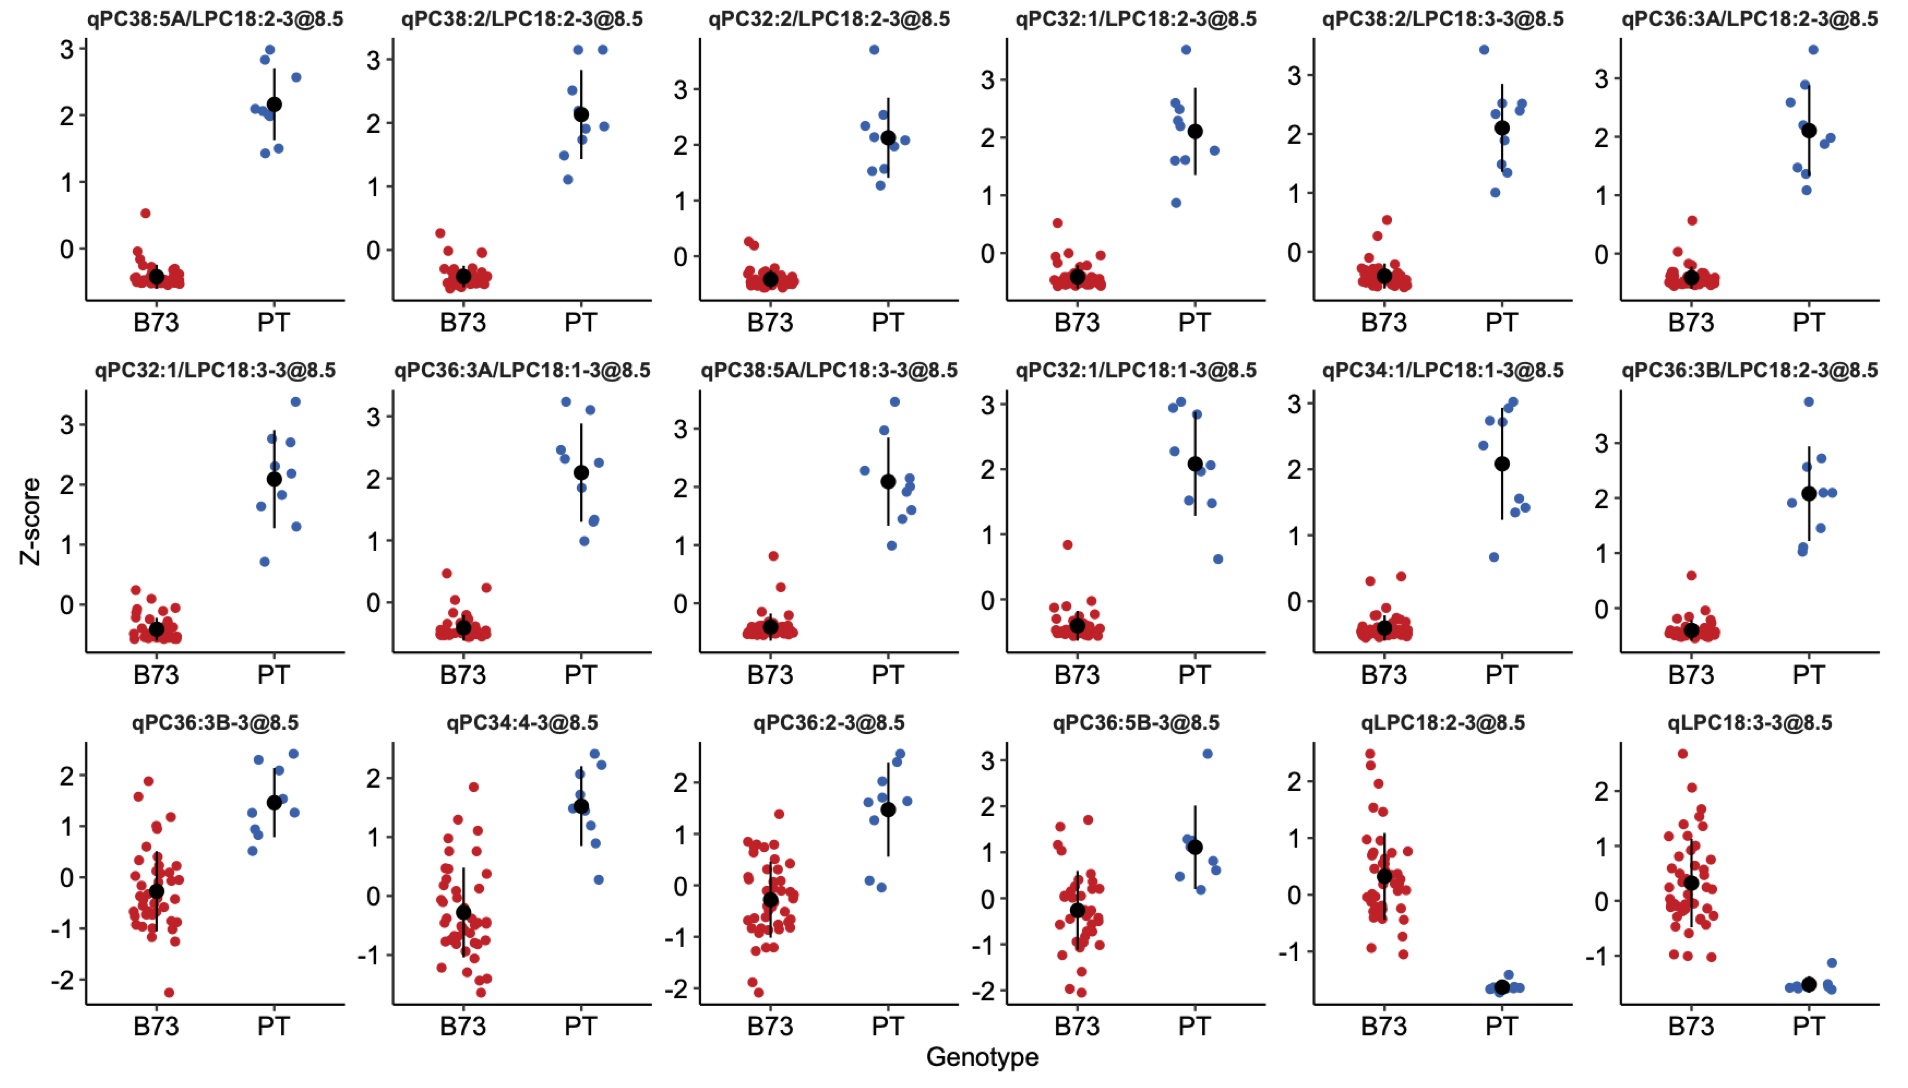
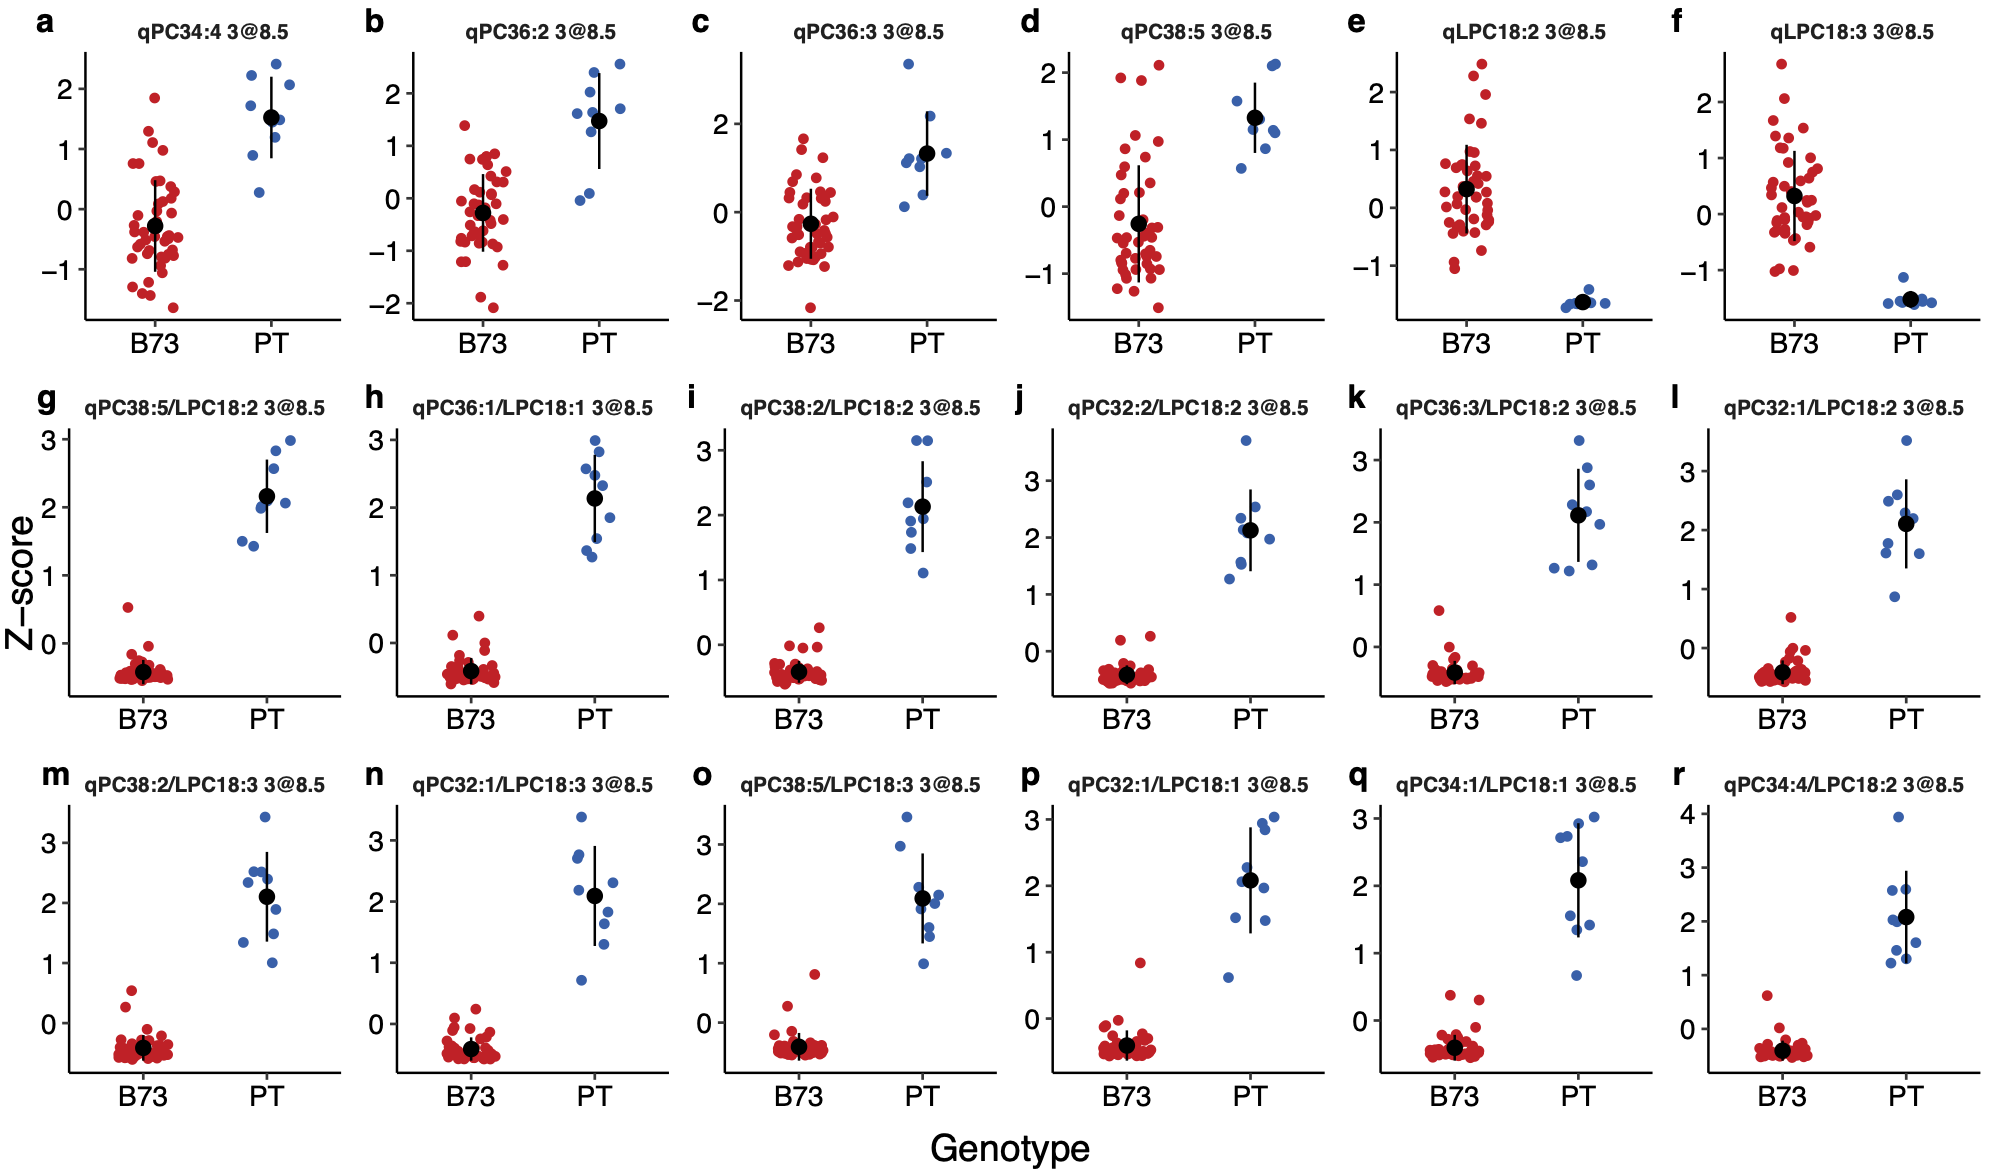
Changed names to HPC1 in supp, added  tags to Sup_Fig_2

diff --git a/main.tex b/main.tex
@@ -222,8 +222,8 @@ Lower panels zoom in on areas of outlier SNPs that co-localize with the physical
 The QTL peaks coincide with the physical location of \textit{HPC1}. 
 \textbf{C)} Effect sizes for PCs, LPCs and PC/LPCs (z-score normalized) in RILs at 8.5 Mb on chromosome 3 that are either homozygous for B73 or PT (top row) and CRISPR-Cas9 \textit{hpc1\textsuperscript{Tins}} mutant and wild-type plants (bottom row), \textit{t}-test \textit{p}-values.        
 \textbf{D)} Effect sizes for individual PC and LPC species (z-score normalized) in RILs at 8.5 Mb on chromosome 3 (left) and CRISPR/Cas9 (right),
-\textit{hpc1\textsuperscript{Tins}} mutant. \textit{*} Significant difference at $p < 0.05$ (t-test , Benjamini \& Hochberg corrected), \textit{ns} not significant.
-\textbf{E)} \textit{HPC1} expression analysis in B73, PT and their F\textsubscript{1} hybrids grown in standard and cold temperatures in a growth chamber, positive effects in black, negative effects in grey, \textit{p}-values from Wilcox ranked paired test.
+\textit{hpc1\textsuperscript{Tins}} mutant. \textit{*} Significant difference at $p < 0.05$ (\textit{t}-test, Benjamini \& Hochberg corrected), \textit{ns} not significant.
+\textbf{E)} \textit{HPC1} expression analysis in B73, PT and their F\textsubscript{1} hybrids grown in standard and cold temperatures in a growth chamber. Benjamini \& Hochberg adjusted \textit{t}-test \textit{p}-values.
 \textbf{F)}PC/LPC ratio for several RILs. RIL B042 (indicated by the black arrow) bears a recombination event 500 bp upstream of the \textit{HPC1} translation start codon.
 In panels C-F, phenotypes associated with the B73 haplotype are in red; the equivalent values for the PT haplotype are in blue.}
 \label{Fig3}
@@ -843,7 +843,7 @@ For each pathway, the heat map shows p-values corresponding to the probability o
 \begin{figure*}[t]
 \begin{center}
 \includegraphics[width=0.9\paperwidth]{Sup_Figures/Sup_Fig_2.png}
-\caption{Effects of QTLs at chromosome 3 @8.5 Mb for individual PC and LPC species (bottom), and PC/LPC ratios (12 most significant peaks).
+\caption{Effects of QTLs at chromosome 3 @8.5 Mb for individual PC (\textit{a-d}) and LPC (\textit{e-f}) species; and PC/LPC ratios (12 most significant peaks, \textit{g-r}).
 }
 
 \label{SupFig2}
